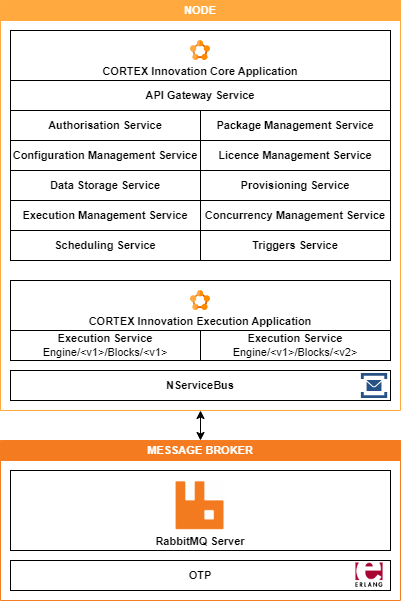
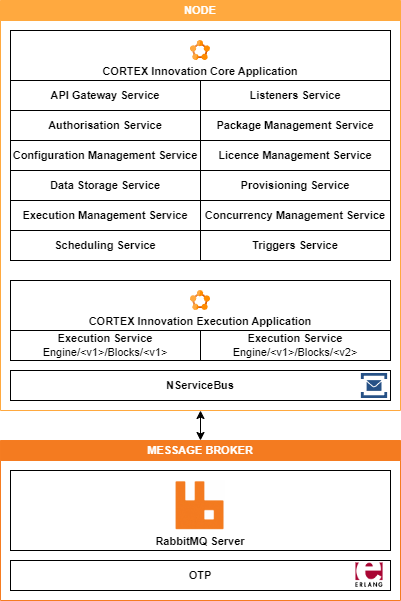
add listener

Changed region(s): [[0.1197, 0.1498, 0.8379, 0.1797]]

diff --git a/content/en/docs/2024.9/_shared/architecture/components/multi-server.md b/content/en/docs/2024.9/_shared/architecture/components/multi-server.md
@@ -10,10 +10,11 @@
 | &nbsp; &nbsp; > [Data Storage Service][Data Storage Service]                         | {{< section "/architecture/components/purpose/data-storage-service.md" >}}                    | -                           | -                                          |
 | &nbsp; &nbsp; > [Execution Management Service][Execution Management Service]         | {{< section "/architecture/components/purpose/execution-management-service.md">}}             | -                           | -                                          |
 | &nbsp; &nbsp; > [Licence Management Service][Licence Management Service]             | {{< section "/architecture/components/purpose/licence-management-service.md" >}}              | -                           | -                                          |
+| &nbsp; &nbsp; > [Listeners Service][Listeners Service]                               | {{< section "/architecture/components/purpose/listeners-service.md" >}}                       | -                           | -                                          |
 | &nbsp; &nbsp; > [Package Management Service][Package Management Service]             | {{< section "/architecture/components/purpose/package-management-service.md" >}}              | -                           | -                                          |
 | &nbsp; &nbsp; > [Provisioning Service][Provisioning Service]                         | {{< section "/architecture/components/purpose/provisioning-service.md" >}}                    | -                           | -                                          |
 | &nbsp; &nbsp; > [Scheduling Service][Scheduling Service]                             | {{< section "/architecture/components/purpose/scheduling-service.md" >}}                      | -                           | -                                          |
-| &nbsp; &nbsp; > [Triggers Service][Triggers Service]                             | {{< section "/architecture/components/purpose/triggers-service.md" >}}                      | -                           | -                                          |
+| &nbsp; &nbsp; > [Triggers Service][Triggers Service]                                 | {{< section "/architecture/components/purpose/triggers-service.md" >}}                        | -                           | -                                          |
 | [{{% ctx %}} Innovation Execution Application][Innovation Execution Application]     | {{< section "/architecture/components/purpose/cortex-innovation-execution-application.md" >}} | Required                    | Application Server                         |
 | &nbsp; &nbsp; > [Execution Service][Execution Service]                               | {{< section "/architecture/components/purpose/execution-service.md" >}}                       | -                           | -                                          |
 | {{% ctx %}} Block Packages                                                           | {{< section "/architecture/components/purpose/cortex-block-packages.md" >}}                   | Required                    | Web Application Server, Application Server |
@@ -36,14 +37,13 @@
 [Execution Management Service]: {{< url path="Cortex.Guides.CortexInnovation.CoreApplication.Services.ExecutionManagementService.MainDoc" >}}
 [Execution Service]: {{< url path="Cortex.Guides.CortexInnovation.ExecutionApplication.Services.ExecutionService.MainDoc" >}}
 [Licence Management Service]: {{< url path="Cortex.Guides.CortexInnovation.CoreApplication.Services.LicenceManagementService.MainDoc" >}}
+[Listeners Service]: {{< url path="Cortex.Guides.CortexInnovation.CoreApplication.Services.ListenersService.MainDoc" >}}
 [Package Management Service]: {{< url path="Cortex.Guides.CortexInnovation.CoreApplication.Services.PackageManagementService.MainDoc" >}}
 [Provisioning Service]: {{< url path="Cortex.Guides.CortexInnovation.CoreApplication.Services.ProvisioningService.MainDoc" >}}
 [Scheduling Service]: {{< url path="Cortex.Guides.CortexInnovation.CoreApplication.Services.SchedulingService.MainDoc" >}}
 [Triggers Service]: {{< url path="Cortex.Guides.CortexInnovation.CoreApplication.Services.TriggersService.MainDoc" >}}
 [Gateway Guide]: {{< url path="Cortex.Guides.Gateway.MainDoc" >}}
 [Studio Guide]: {{< url path="Cortex.Guides.Studio.MainDoc" >}}
-[SQL Server Express]: {{< url path="MSDownload.SqlServerExpress.2016" >}}
-[SQL Server Standard]: {{< url path="MSEval.SQLServer.2019" >}}
 [Microsoft Service Fabric]: {{< url path="MSDocs.ServiceFabric.MainDoc" >}}
 [Microsoft Service Fabric Explorer]: {{< url path="MSDocs.ServiceFabric.Explorer" >}}
 [Particular NServiceBus]: {{< url path="Particular.NServiceBus.MainDoc" >}}

diff --git a/content/en/docs/2024.9/_shared/architecture/components/single-server.md b/content/en/docs/2024.9/_shared/architecture/components/single-server.md
@@ -10,10 +10,11 @@
 | &nbsp; &nbsp; > [Data Storage Service][Data Storage Service]                         | {{< section "/architecture/components/purpose/data-storage-service.md" >}}                    | -                           | -                                          |
 | &nbsp; &nbsp; > [Execution Management Service][Execution Management Service]         | {{< section "/architecture/components/purpose/execution-management-service.md">}}             | -                           | -                                          |
 | &nbsp; &nbsp; > [Licence Management Service][Licence Management Service]             | {{< section "/architecture/components/purpose/licence-management-service.md" >}}              | -                           | -                                          |
+| &nbsp; &nbsp; > [Listeners Service][Listeners Service]                               | {{< section "/architecture/components/purpose/listeners-service.md" >}}                       | -                           | -                                          |
 | &nbsp; &nbsp; > [Package Management Service][Package Management Service]             | {{< section "/architecture/components/purpose/package-management-service.md" >}}              | -                           | -                                          |
 | &nbsp; &nbsp; > [Provisioning Service][Provisioning Service]                         | {{< section "/architecture/components/purpose/provisioning-service.md" >}}                    | -                           | -                                          |
 | &nbsp; &nbsp; > [Scheduling Service][Scheduling Service]                             | {{< section "/architecture/components/purpose/scheduling-service.md" >}}                      | -                           | -                                          |
-| &nbsp; &nbsp; > [Triggers Service][Triggers Service]                             | {{< section "/architecture/components/purpose/triggers-service.md" >}}                      | -                           | -                                          |
+| &nbsp; &nbsp; > [Triggers Service][Triggers Service]                                 | {{< section "/architecture/components/purpose/triggers-service.md" >}}                        | -                           | -                                          |
 | [{{% ctx %}} Innovation Execution Application][Innovation Execution Application]     | {{< section "/architecture/components/purpose/cortex-innovation-execution-application.md" >}} | Required                    | Application Server                         |
 | &nbsp; &nbsp; > [Execution Service][Execution Service]                               | {{< section "/architecture/components/purpose/execution-service.md" >}}                       | -                           | -                                          |
 | {{% ctx %}} Block Packages                                                           | {{< section "/architecture/components/purpose/cortex-block-packages.md" >}}                   | Required                    | Web Application Server, Application Server |
@@ -34,14 +35,13 @@
 [Execution Management Service]: {{< url path="Cortex.Guides.CortexInnovation.CoreApplication.Services.ExecutionManagementService.MainDoc" >}}
 [Execution Service]: {{< url path="Cortex.Guides.CortexInnovation.ExecutionApplication.Services.ExecutionService.MainDoc" >}}
 [Licence Management Service]: {{< url path="Cortex.Guides.CortexInnovation.CoreApplication.Services.LicenceManagementService.MainDoc" >}}
+[Listeners Service]: {{< url path="Cortex.Guides.CortexInnovation.CoreApplication.Services.ListenersService.MainDoc" >}}
 [Package Management Service]: {{< url path="Cortex.Guides.CortexInnovation.CoreApplication.Services.PackageManagementService.MainDoc" >}}
 [Provisioning Service]: {{< url path="Cortex.Guides.CortexInnovation.CoreApplication.Services.ProvisioningService.MainDoc" >}}
 [Scheduling Service]: {{< url path="Cortex.Guides.CortexInnovation.CoreApplication.Services.SchedulingService.MainDoc" >}}
 [Triggers Service]: {{< url path="Cortex.Guides.CortexInnovation.CoreApplication.Services.TriggersService.MainDoc" >}}
 [Gateway Guide]: {{< url path="Cortex.Guides.Gateway.MainDoc" >}}
 [Studio Guide]: {{< url path="Cortex.Guides.Studio.MainDoc" >}}
-[SQL Server Express]: {{< url path="MSDownload.SqlServerExpress.2016" >}}
-[SQL Server Standard]: {{< url path="MSEval.SQLServer.2019" >}}
 [Microsoft Service Fabric]: {{< url path="MSDocs.ServiceFabric.MainDoc" >}}
 [Microsoft Service Fabric Explorer]: {{< url path="MSDocs.ServiceFabric.Explorer" >}}
 [Particular NServiceBus]: {{< url path="Particular.NServiceBus.MainDoc" >}}

diff --git a/content/en/docs/2024.9/_shared/architecture/components/purpose/listeners-service.md b/content/en/docs/2024.9/_shared/architecture/components/purpose/listeners-service.md
@@ -1,0 +1,1 @@
+Application Service that accepts incoming connections that could trigger executions.
